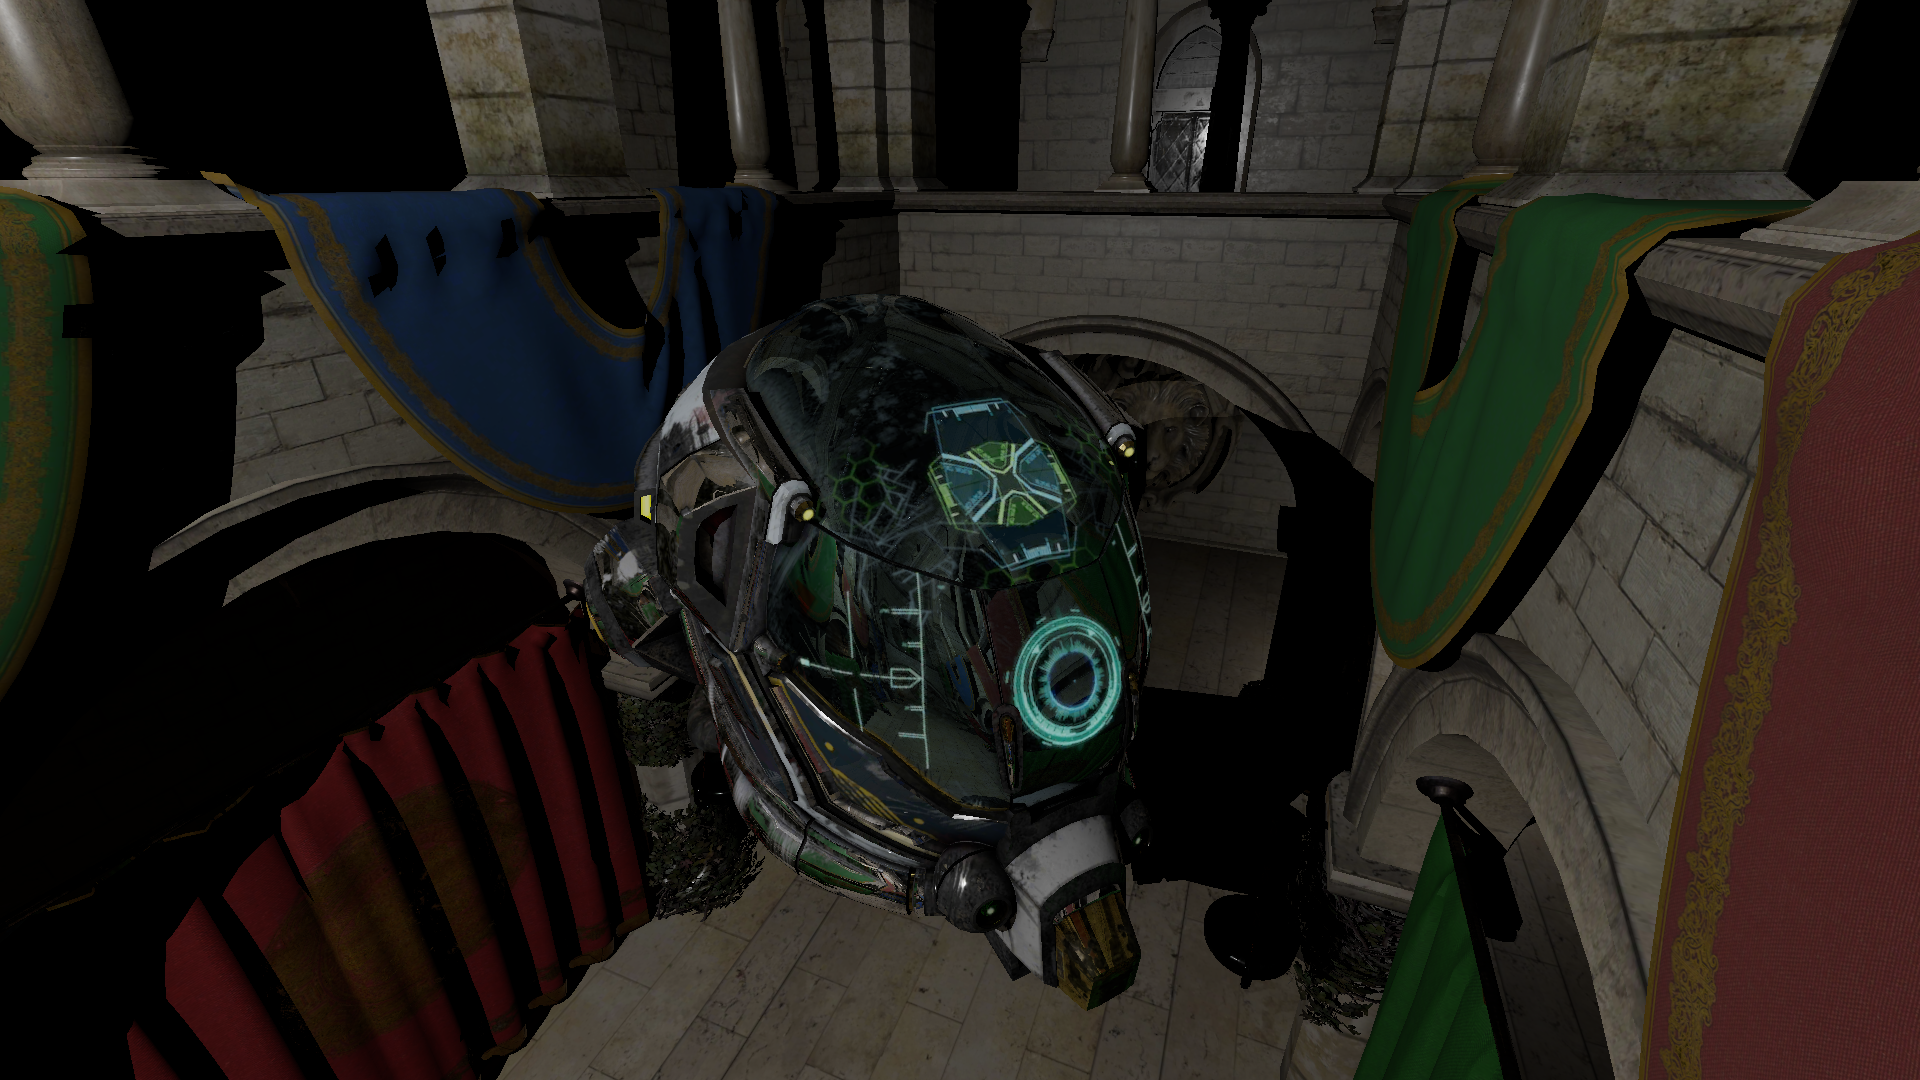
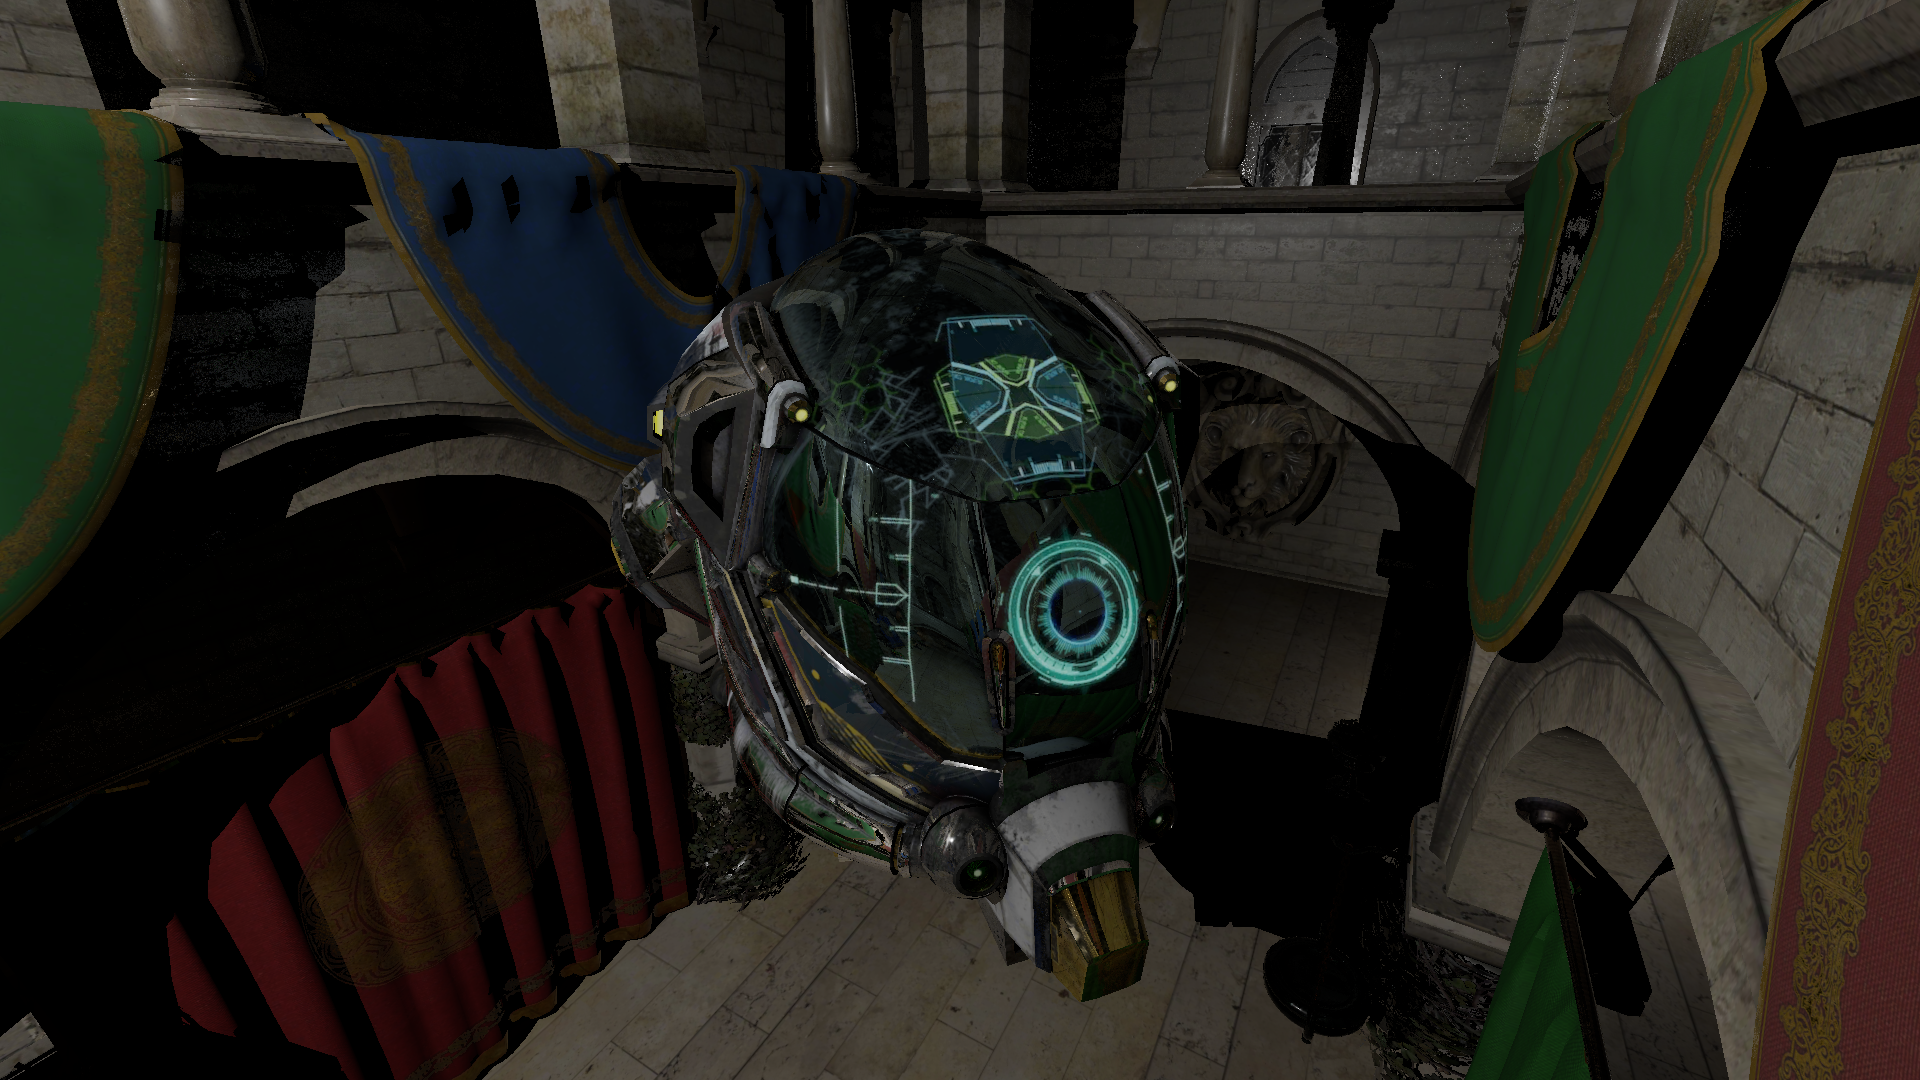
Implemented rough reflections. Fixed not adding the any-hit shader to the .gitignore.

diff --git a/SolaRender.c b/SolaRender.c
@@ -27,7 +27,7 @@
 #define CGLTF_CHECK(x) { \
 	int result = (x); \
 	if (unlikely(result != 0)) \
-		SR_PRINT_ERROR("cglTF", result) \
+		SR_PRINT_ERROR("cgltf", result) \
 }
 #define KTX_CHECK(x) { \
 	int result = (x); \
@@ -67,7 +67,7 @@ VkCommandBuffer createTransientCmdBuffer(SolaRender* engine) { // Returns a sing
 	
 	return cmdBuffer;
 }
-void flushTransientCmdBuffer(SolaRender* engine, VkCommandBuffer cmdBuffer) { // Executes, waits, then frees cmdBuffer
+void flushTransientCmdBuffer(SolaRender* engine, VkCommandBuffer cmdBuffer) { // Executes, waits, then frees transient cmdBuffer
 	VK_CHECK(vkEndCommandBuffer(cmdBuffer))
 	
 	VkFence fence;
@@ -359,7 +359,7 @@ void selectPhysicalDevice(SolaRender* engine) {
 		fprintf(stderr, "Limiting queried devices to %u\n", physDeviceCount);
 	}
 	VK_CHECK(vkEnumeratePhysicalDevices(engine->instance, &physDeviceCount, physicalDevices))
-	
+
 	VkPhysicalDeviceRayTracingPipelineFeaturesKHR rayTracePipelineFeatures = {
 		.sType = VK_STRUCTURE_TYPE_PHYSICAL_DEVICE_RAY_TRACING_PIPELINE_FEATURES_KHR
 	};
@@ -439,13 +439,13 @@ void createLogicalDevice(SolaRender* engine) {
 			.queueFamilyIndex	= engine->queueFamilyIndex
 		};
 		VkPhysicalDeviceRayTracingPipelineFeaturesKHR rayTracePipelineFeatures = {
-			.sType				= VK_STRUCTURE_TYPE_PHYSICAL_DEVICE_RAY_TRACING_PIPELINE_FEATURES_KHR,
-			.rayTracingPipeline	= 1
+			.sType								= VK_STRUCTURE_TYPE_PHYSICAL_DEVICE_RAY_TRACING_PIPELINE_FEATURES_KHR,
+			.rayTracingPipeline					= 1
 		};
 		VkPhysicalDeviceAccelerationStructureFeaturesKHR accelStructFeatures = {
-			.sType					= VK_STRUCTURE_TYPE_PHYSICAL_DEVICE_ACCELERATION_STRUCTURE_FEATURES_KHR,
-			.pNext					= &rayTracePipelineFeatures,
-			.accelerationStructure	= 1
+			.sType								= VK_STRUCTURE_TYPE_PHYSICAL_DEVICE_ACCELERATION_STRUCTURE_FEATURES_KHR,
+			.pNext								= &rayTracePipelineFeatures,
+			.accelerationStructure				= 1
 		};
 		VkPhysicalDeviceVulkan12Features vulkan12Features = {
 			.sType								= VK_STRUCTURE_TYPE_PHYSICAL_DEVICE_VULKAN_1_2_FEATURES,
@@ -458,21 +458,21 @@ void createLogicalDevice(SolaRender* engine) {
 			.bufferDeviceAddress				= 1
 		};
 		VkPhysicalDeviceVulkan11Features vulkan11Features = {
-			.sType						= VK_STRUCTURE_TYPE_PHYSICAL_DEVICE_VULKAN_1_1_FEATURES,
-			.pNext						= &vulkan12Features,
-			.storageBuffer16BitAccess	= 1
+			.sType								= VK_STRUCTURE_TYPE_PHYSICAL_DEVICE_VULKAN_1_1_FEATURES,
+			.pNext								= &vulkan12Features,
+			.storageBuffer16BitAccess			= 1
 		};
 		VkPhysicalDeviceFeatures2 features2 = {
-			.sType							= VK_STRUCTURE_TYPE_PHYSICAL_DEVICE_FEATURES_2,
-			.pNext							= &vulkan11Features,
-			.features.samplerAnisotropy		= 1,
-			.features.shaderInt64			= 1,
-			.features.shaderInt16			= 1,
-			.features.textureCompressionBC	= 1
+			.sType								= VK_STRUCTURE_TYPE_PHYSICAL_DEVICE_FEATURES_2,
+			.pNext								= &vulkan11Features,
+			.features.samplerAnisotropy			= 1,
+			.features.shaderInt64				= 1,
+			.features.shaderInt16				= 1,
+			.features.textureCompressionBC		= 1
 		};
 		const char* const deviceExtensions[] = {
 			VK_KHR_ACCELERATION_STRUCTURE_EXTENSION_NAME, VK_KHR_DEFERRED_HOST_OPERATIONS_EXTENSION_NAME,
-			VK_KHR_RAY_TRACING_PIPELINE_EXTENSION_NAME,  VK_KHR_SWAPCHAIN_EXTENSION_NAME
+			VK_KHR_RAY_TRACING_PIPELINE_EXTENSION_NAME, VK_KHR_SHADER_CLOCK_EXTENSION_NAME, VK_KHR_SWAPCHAIN_EXTENSION_NAME
 		};
 		VkDeviceCreateInfo deviceCreateInfo = {
 			.sType						= VK_STRUCTURE_TYPE_DEVICE_CREATE_INFO,
@@ -535,22 +535,22 @@ void createLogicalDevice(SolaRender* engine) {
 			.pBindingFlags	= (VkDescriptorBindingFlags[6]) { [5] = VK_DESCRIPTOR_BINDING_PARTIALLY_BOUND_BIT }
 		};
 		VkDescriptorSetLayoutBinding descSetLayoutBinds[6] = {
-			[0].binding				= SR_DESC_BIND_PT_AS,
+			[0].binding				= SR_DESC_BIND_PT_TLAS,
 			[0].descriptorType		= VK_DESCRIPTOR_TYPE_ACCELERATION_STRUCTURE_KHR,
 			[0].descriptorCount		= 1,
 			[0].stageFlags			= VK_SHADER_STAGE_RAYGEN_BIT_KHR | VK_SHADER_STAGE_CLOSEST_HIT_BIT_KHR,
 			
-			[1].binding				= SR_DESC_BIND_PT_IMG,
+			[1].binding				= SR_DESC_BIND_PT_STOR_IMG,
 			[1].descriptorType		= VK_DESCRIPTOR_TYPE_STORAGE_IMAGE,
 			[1].descriptorCount		= 1,
 			[1].stageFlags			= VK_SHADER_STAGE_RAYGEN_BIT_KHR,
 			
-			[2].binding				= SR_DESC_BIND_PT_GEN,
+			[2].binding				= SR_DESC_BIND_PT_UNI_GEN,
 			[2].descriptorType		= VK_DESCRIPTOR_TYPE_UNIFORM_BUFFER,
 			[2].descriptorCount		= 1,
 			[2].stageFlags			= VK_SHADER_STAGE_RAYGEN_BIT_KHR,
 			
-			[3].binding				= SR_DESC_BIND_PT_HIT,
+			[3].binding				= SR_DESC_BIND_PT_UNI_HIT,
 			[3].descriptorType		= VK_DESCRIPTOR_TYPE_UNIFORM_BUFFER,
 			[3].descriptorCount		= 1,
 			[3].stageFlags			= VK_SHADER_STAGE_CLOSEST_HIT_BIT_KHR | VK_SHADER_STAGE_ANY_HIT_BIT_KHR,
@@ -637,6 +637,7 @@ void initializeGeometry(SolaRender* engine) {
 			const void*	indexAddr;
 			const void*	posAddr;
 			const void*	normAddr;
+			const void* tangAddr;
 			const void*	texUVAddr;
 		} perMeshData[SR_MAX_BLAS];
 
@@ -652,7 +653,7 @@ void initializeGeometry(SolaRender* engine) {
 				primitiveCount	+= sceneData[idxScene]->meshes[idxSceneMesh].primitives_count;
 				indexBufferSize	+= perMeshData[idxMesh].indexBufferSize;
 
-				perMeshData[idxMesh].texUVAddr = 0; // textures are optional
+				perMeshData[idxMesh].tangAddr	= NULL; // tangents will be generated if missing
 
 				for (uint8_t idxAttr = 0; idxAttr < sceneData[idxScene]->meshes[idxSceneMesh].primitives[0].attributes_count; idxAttr++)
 					switch (sceneData[idxScene]->meshes[idxSceneMesh].primitives[0].attributes[idxAttr].type) {
@@ -684,7 +685,7 @@ void initializeGeometry(SolaRender* engine) {
 			+ engine->bottomAccelStructCount * (sizeof(void*) + sizeof(VkAccelerationStructureBuildGeometryInfoKHR) + sizeof(VkAccelerationStructureBuildSizesInfoKHR)
 			+ sizeof(VkAccelerationStructureCreateInfoKHR) + sizeof(VkAccelerationStructureInstanceKHR)));
 		
-		Vertex* vertices = malloc(vertexCount * sizeof(Vertex) + indexBufferSize + materialCount * sizeof(MaterialInfo) + primitiveCount * sizeof(uint32_t));
+		Vertex* vertices = malloc(vertexCount * sizeof(Vertex) + indexBufferSize + materialCount * sizeof(Material) + primitiveCount * sizeof(uint32_t));
 
 		rangeInfos				= (VkAccelerationStructureBuildRangeInfoKHR*)		(geometries			+ primitiveCount);
 		rangeInfosArray			= (VkAccelerationStructureBuildRangeInfoKHR**)		(rangeInfos			+ primitiveCount);
@@ -693,9 +694,9 @@ void initializeGeometry(SolaRender* engine) {
 		accelStructInfos		= (VkAccelerationStructureCreateInfoKHR*)			(sizesInfos			+ engine->bottomAccelStructCount);
 		accelStructInstances	= (VkAccelerationStructureInstanceKHR*)				(accelStructInfos	+ engine->bottomAccelStructCount);
 		
-		char*			indices		= (char*)			(vertices	+ vertexCount);
-		MaterialInfo*	materials	= (MaterialInfo*)	(indices	+ indexBufferSize);
-		uint32_t*		primCounts	= (uint32_t*)		(materials	+ materialCount);
+		char*		indices		= (char*)		(vertices	+ vertexCount);
+		Material*	materials	= (Material*)	(indices	+ indexBufferSize);
+		uint32_t*	primCounts	= (uint32_t*)	(materials	+ materialCount);
 		
 		if (unlikely(!geometries || !vertices)) {
 			fprintf(stderr, "Failed to allocate host memory!\n");
@@ -713,18 +714,10 @@ void initializeGeometry(SolaRender* engine) {
 
 				indexSlice += perMeshData[idxMesh].indexBufferSize;
 
-				// interleaving attributes
 				for (uint32_t idxSceneVert = 0; idxSceneVert < perMeshData[idxMesh].vertexCount; idxSceneVert++) {
 					memcpy(vertices[idxVert + idxSceneVert].pos,	perMeshData[idxMesh].posAddr	+ idxSceneVert * sizeof(vec3), sizeof(vec3));
 					memcpy(vertices[idxVert + idxSceneVert].norm,	perMeshData[idxMesh].normAddr	+ idxSceneVert * sizeof(vec3), sizeof(vec3));
-				}
-				if (perMeshData[idxMesh].texUVAddr) {
-					for (uint32_t idxSceneVert = 0; idxSceneVert < perMeshData[idxMesh].vertexCount; idxSceneVert++)
-						memcpy(vertices[idxVert + idxSceneVert].texUV, perMeshData[idxMesh].texUVAddr + idxSceneVert * sizeof(vec2), sizeof(vec2));
-				}
-				else {
-					for (uint32_t idxSceneVert = 0; idxSceneVert < perMeshData[idxMesh].vertexCount; idxSceneVert++)
-						memcpy(vertices[idxVert + idxSceneVert].texUV, (vec2) {0.f, 0.f}, sizeof(vec2));
+					memcpy(vertices[idxVert + idxSceneVert].texUV,	perMeshData[idxMesh].texUVAddr	+ idxSceneVert * sizeof(vec2), sizeof(vec2));
 				}
 				idxVert += perMeshData[idxMesh].vertexCount;
 				idxMesh++;
@@ -756,11 +749,11 @@ void initializeGeometry(SolaRender* engine) {
 
 		for (uint8_t idxScene = 0; idxScene < sizeof(sceneData) / sizeof(void*); idxScene++) { // Material setup, and collecting textures to transcode
 			for (uint16_t idxSceneMaterial = 0; idxSceneMaterial < sceneData[idxScene]->materials_count; idxSceneMaterial++) {
-				memcpy(materials[idxMaterial].baseMat.colorFactor,		sceneData[idxScene]->materials[idxSceneMaterial].pbr_metallic_roughness.base_color_factor,	sizeof(vec3));
-				memcpy(materials[idxMaterial].baseMat.emissiveFactor,	sceneData[idxScene]->materials[idxSceneMaterial].emissive_factor,							sizeof(vec3));
+				memcpy(materials[idxMaterial].colorFactor,		sceneData[idxScene]->materials[idxSceneMaterial].pbr_metallic_roughness.base_color_factor,	sizeof(vec3));
+				memcpy(materials[idxMaterial].emissiveFactor,	sceneData[idxScene]->materials[idxSceneMaterial].emissive_factor,							sizeof(vec3));
 
-				materials[idxMaterial].baseMat.metalFactor = sceneData[idxScene]->materials[idxSceneMaterial].pbr_metallic_roughness.metallic_factor;
-				materials[idxMaterial].baseMat.roughFactor = sceneData[idxScene]->materials[idxSceneMaterial].pbr_metallic_roughness.roughness_factor;
+				materials[idxMaterial].metalFactor = sceneData[idxScene]->materials[idxSceneMaterial].pbr_metallic_roughness.metallic_factor;
+				materials[idxMaterial].roughFactor = sceneData[idxScene]->materials[idxSceneMaterial].pbr_metallic_roughness.roughness_factor;
 
 				if (sceneData[idxScene]->materials[idxSceneMaterial].pbr_metallic_roughness.base_color_texture.texture) {
 					materials[idxMaterial].colorTexIdx = engine->textureImageCount;
@@ -976,7 +969,7 @@ void initializeGeometry(SolaRender* engine) {
 			VK_BUFFER_USAGE_SHADER_DEVICE_ADDRESS_BIT | VK_BUFFER_USAGE_ACCELERATION_STRUCTURE_BUILD_INPUT_READ_ONLY_BIT_KHR | VK_BUFFER_USAGE_TRANSFER_DST_BIT,
 			VK_MEMORY_PROPERTY_DEVICE_LOCAL_BIT, &engine->pushConstants.vertexAddr, vertices);
 		
-		engine->materialBuffer = createBuffer(engine, materialCount * sizeof(MaterialInfo),
+		engine->materialBuffer = createBuffer(engine, materialCount * sizeof(Material),
 			VK_BUFFER_USAGE_SHADER_DEVICE_ADDRESS_BIT | VK_BUFFER_USAGE_TRANSFER_DST_BIT, VK_MEMORY_PROPERTY_DEVICE_LOCAL_BIT,
 			&engine->pushConstants.materialAddr, materials);
 
@@ -1108,7 +1101,7 @@ void initializeGeometry(SolaRender* engine) {
 
 		engine->vkGetAccelerationStructureBuildSizesKHR(engine->device, VK_ACCELERATION_STRUCTURE_BUILD_TYPE_DEVICE_KHR, &buildGeometryInfos[0], &rangeInfos[0].primitiveCount, &sizesInfos[0]);
 		
-		if (unlikely(scratchSize < sizesInfos[0].accelerationStructureSize)) { // In the theoretical event that the max scratch size for BLASs isn't enough for the TLAS, handle it
+		if (unlikely(scratchSize < sizesInfos[0].accelerationStructureSize)) { // In the theoretical event that the max scratch size for BLASes isn't enough for the TLAS, handle it
 			VK_CHECK(vkWaitForFences(engine->device, 1, &engine->accelStructBuildCmdBufferFence, VK_TRUE, UINT64_MAX))
 
 			vkDestroyBuffer(engine->device, engine->accelStructBuildScratchBuffer.buffer, NULL);
@@ -1379,21 +1372,24 @@ void createRayTracingPipeline(SolaRender* engine) {
 		.layerCount = 1
 	};
 	{
-		VkDescriptorPoolSize descriptorPoolSizes[5] = {
+		VkDescriptorPoolSize descriptorPoolSizes[6] = {
 			[0].type			= VK_DESCRIPTOR_TYPE_ACCELERATION_STRUCTURE_KHR,
 			[0].descriptorCount	= engine->swapImgCount,
 			
 			[1].type			= VK_DESCRIPTOR_TYPE_STORAGE_IMAGE,
 			[1].descriptorCount	= engine->swapImgCount,
-			
-			[2].type			= VK_DESCRIPTOR_TYPE_UNIFORM_BUFFER,
+
+			[2].type			= VK_DESCRIPTOR_TYPE_STORAGE_IMAGE,
 			[2].descriptorCount	= engine->swapImgCount,
 			
 			[3].type			= VK_DESCRIPTOR_TYPE_UNIFORM_BUFFER,
 			[3].descriptorCount	= engine->swapImgCount,
 			
-			[4].type			= VK_DESCRIPTOR_TYPE_SAMPLED_IMAGE,
-			[4].descriptorCount	= engine->swapImgCount
+			[4].type			= VK_DESCRIPTOR_TYPE_UNIFORM_BUFFER,
+			[4].descriptorCount	= engine->swapImgCount,
+			
+			[5].type			= VK_DESCRIPTOR_TYPE_SAMPLED_IMAGE,
+			[5].descriptorCount	= engine->swapImgCount
 		};
 		VkDescriptorPoolCreateInfo descriptorPoolCreateInfo = {
 			.sType			= VK_STRUCTURE_TYPE_DESCRIPTOR_POOL_CREATE_INFO,
@@ -1438,28 +1434,28 @@ void createRayTracingPipeline(SolaRender* engine) {
 		VkWriteDescriptorSet descriptorSetWrite[5] = {
 			[0].sType			= VK_STRUCTURE_TYPE_WRITE_DESCRIPTOR_SET,
 			[0].pNext			= &descriptorAccelerationStructureInfo,
-			[0].dstBinding		= SR_DESC_BIND_PT_AS,
+			[0].dstBinding		= SR_DESC_BIND_PT_TLAS,
 			[0].descriptorCount	= 1,
 			[0].descriptorType	= VK_DESCRIPTOR_TYPE_ACCELERATION_STRUCTURE_KHR,
 			
 			[1].sType			= VK_STRUCTURE_TYPE_WRITE_DESCRIPTOR_SET,
-			[1].dstBinding		= SR_DESC_BIND_PT_IMG,
+			[1].dstBinding		= SR_DESC_BIND_PT_STOR_IMG,
 			[1].descriptorCount	= 1,
 			[1].descriptorType	= VK_DESCRIPTOR_TYPE_STORAGE_IMAGE,
 			[1].pImageInfo		= &storageImageDescriptorInfo,
 			
 			[2].sType			= VK_STRUCTURE_TYPE_WRITE_DESCRIPTOR_SET,
-			[2].dstBinding		= SR_DESC_BIND_PT_GEN,
+			[2].dstBinding		= SR_DESC_BIND_PT_UNI_GEN,
 			[2].descriptorCount	= 1,
 			[2].descriptorType	= VK_DESCRIPTOR_TYPE_UNIFORM_BUFFER,
 			[2].pBufferInfo		= &rayGenUniformBufferInfo,
 			
 			[3].sType			= VK_STRUCTURE_TYPE_WRITE_DESCRIPTOR_SET,
-			[3].dstBinding		= SR_DESC_BIND_PT_HIT,
+			[3].dstBinding		= SR_DESC_BIND_PT_UNI_HIT,
 			[3].descriptorCount	= 1,
 			[3].descriptorType	= VK_DESCRIPTOR_TYPE_UNIFORM_BUFFER,
 			[3].pBufferInfo		= &rayHitUniformBufferInfo,
-			
+
 			[4].sType			= VK_STRUCTURE_TYPE_WRITE_DESCRIPTOR_SET,
 			[4].dstBinding		= SR_DESC_BIND_PT_TEX,
 			[4].descriptorCount	= engine->textureImageCount,
@@ -1562,7 +1558,7 @@ void createRayTracingPipeline(SolaRender* engine) {
 			
 			vkCmdBindPipeline(engine->renderCmdBuffers[x], VK_PIPELINE_BIND_POINT_RAY_TRACING_KHR, engine->rayTracePipeline);
 			vkCmdBindDescriptorSets(engine->renderCmdBuffers[x], VK_PIPELINE_BIND_POINT_RAY_TRACING_KHR, engine->pipelineLayout, 0, 1, &engine->descriptorSets[x], 0, NULL);
-			
+
 			vkCmdPushConstants(engine->renderCmdBuffers[x], engine->pipelineLayout, VK_SHADER_STAGE_CLOSEST_HIT_BIT_KHR | VK_SHADER_STAGE_ANY_HIT_BIT_KHR, 0, sizeof(PushConstants), &engine->pushConstants);
 			
 			engine->vkCmdTraceRaysKHR(engine->renderCmdBuffers[x], &genShaderSbt, &missShaderSbt, &hitShaderSbt, &callableShaderSbt, surfaceCapabilities.currentExtent.width, surfaceCapabilities.currentExtent.height, 1);

diff --git a/README.md b/README.md
@@ -2,7 +2,7 @@
 
 ## About
 
-A personal playground for trying/testing out various ray-tracing techniques. It utilizes the Khronos hardware-accelerated ray-tracing extensions, and currently supports hard-shadows, metallic-roughness PBR, ray-cone texture LOD, alpha-masked transparency, and simple reflections.
+A personal playground for trying/testing out various ray-tracing techniques. It utilizes the Khronos hardware-accelerated ray-tracing extensions, and currently supports hard-shadows, metallic-roughness PBR, ray-cone texture LOD, alpha-masked transparency, and rough reflections.
 
 ## Models
 
